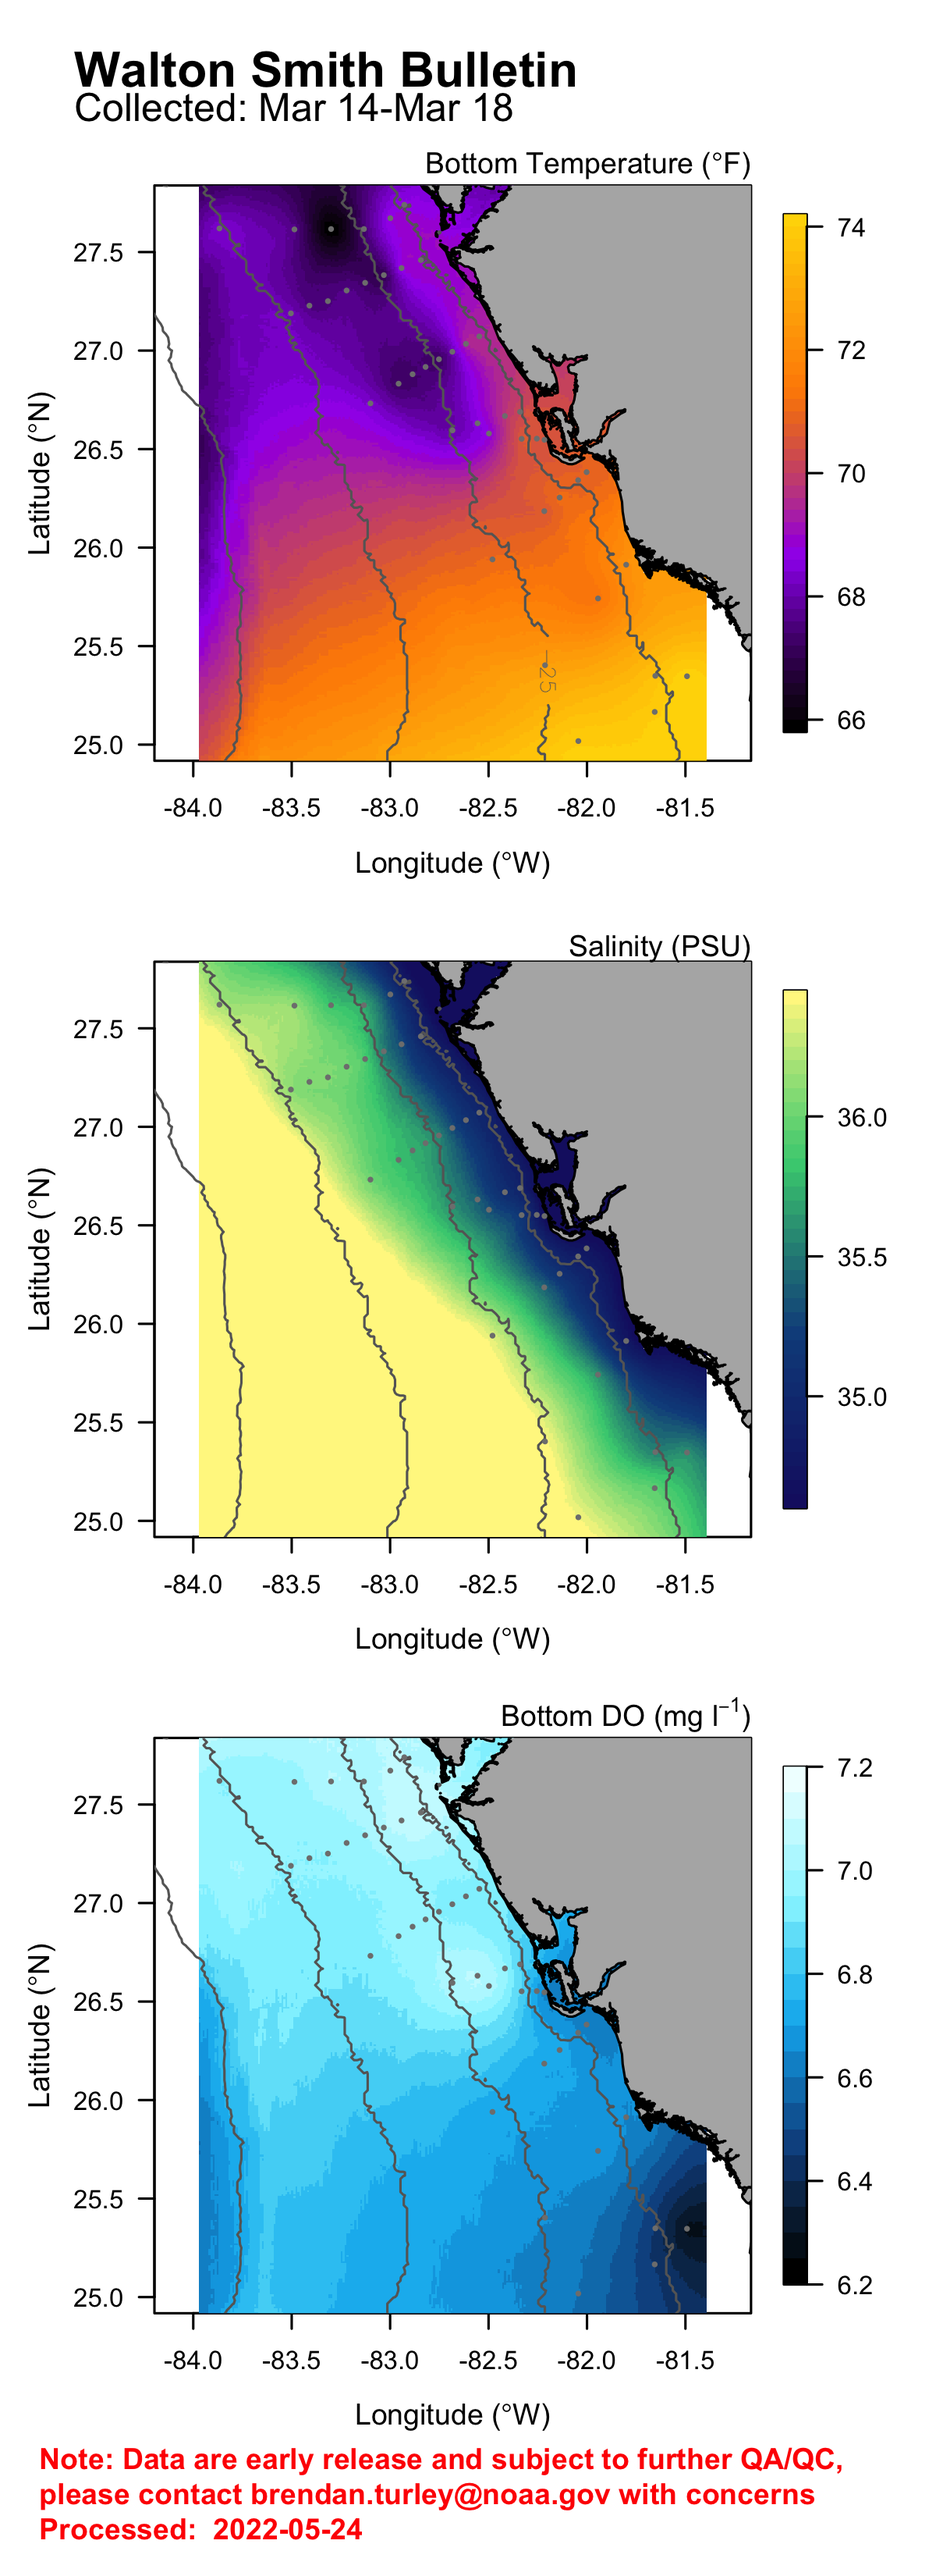
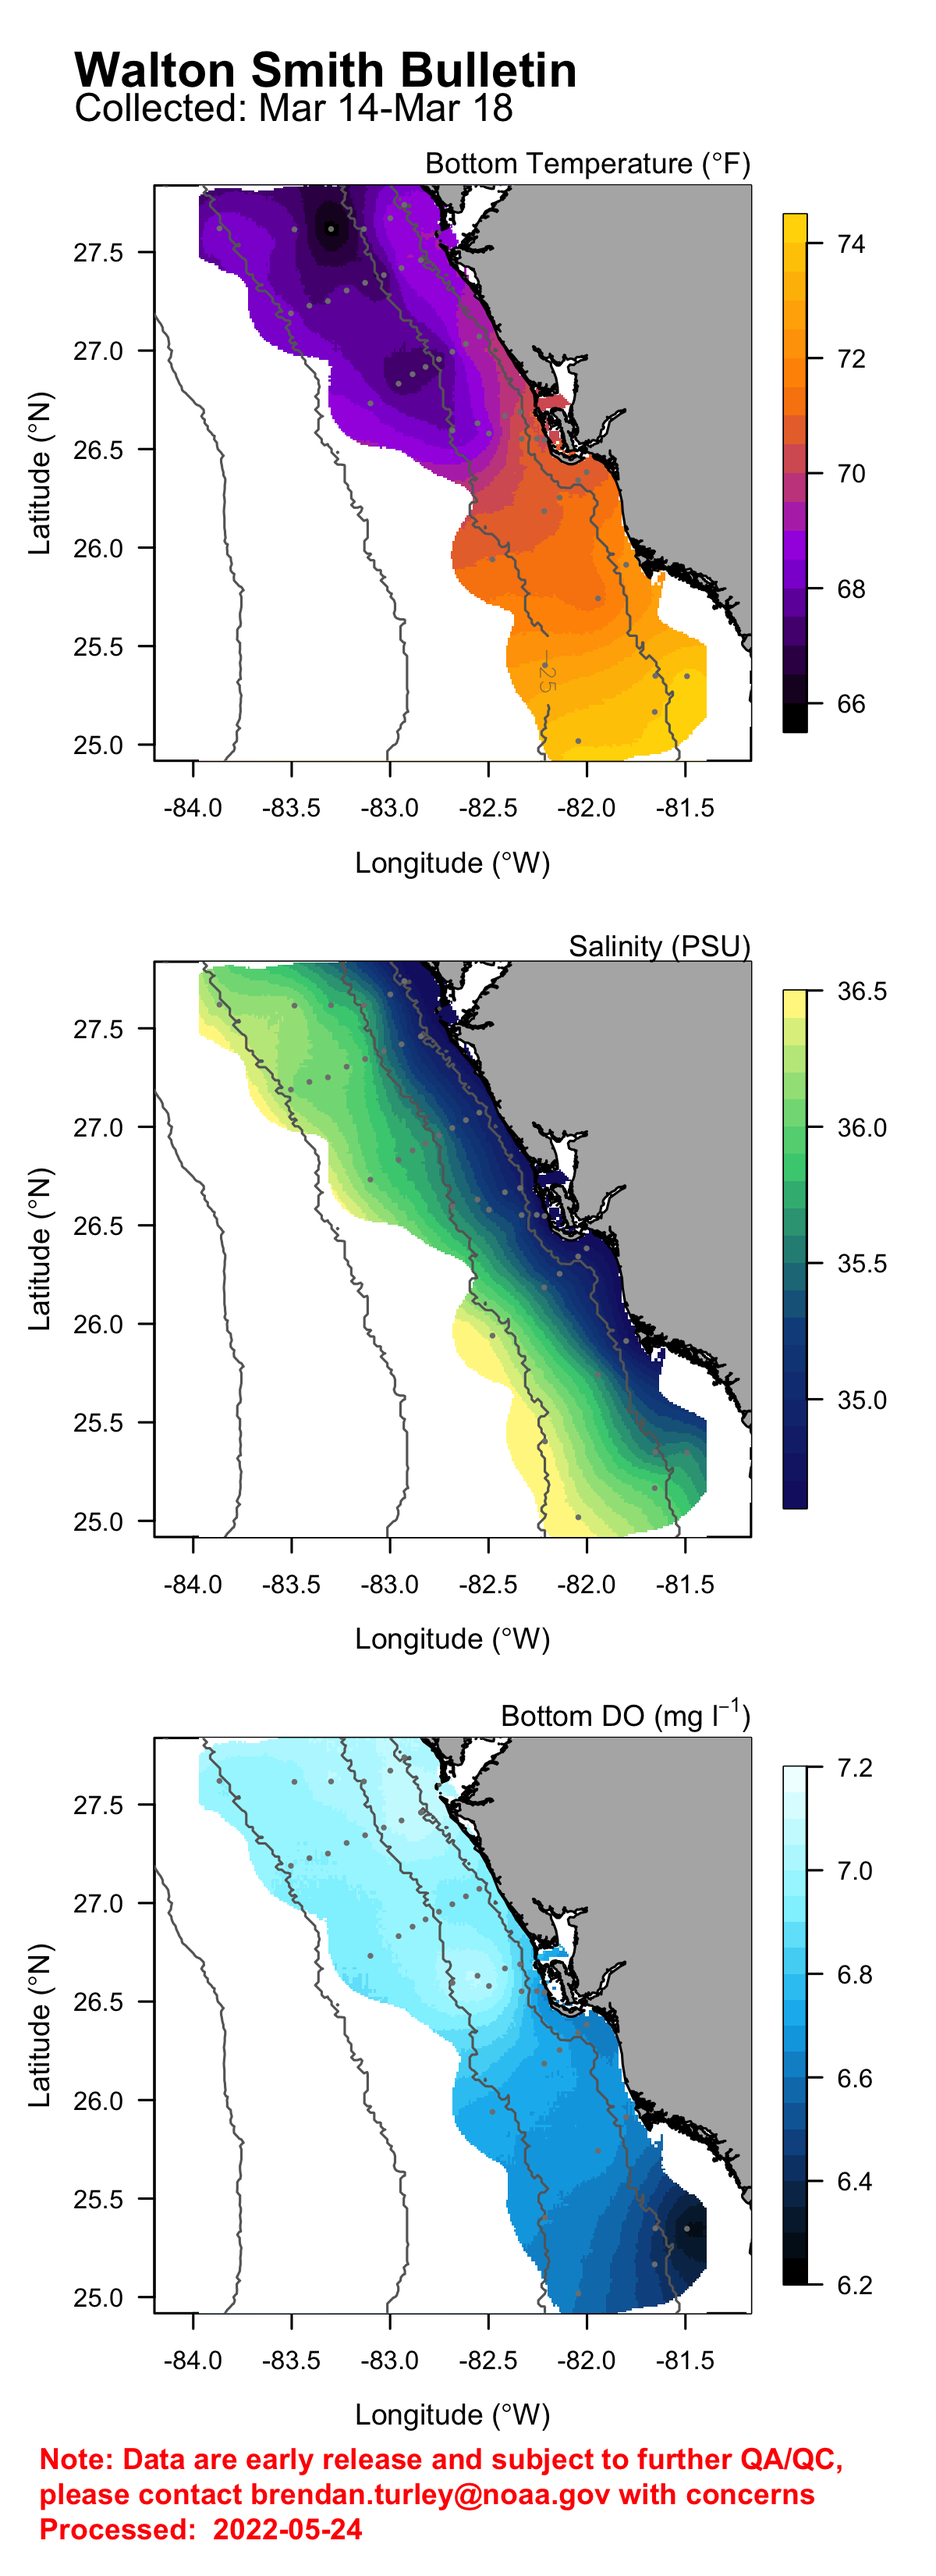
covariate response

diff --git a/README.md b/README.md
@@ -11,4 +11,4 @@ Underdevelopment is interpolation that takes into consideration coastlines and b
 
 ![alt text](https://github.com/imaginaryfish/waltonsmith/blob/main/figures/WS22072_underway.png "latest underway data")
 
-![alt text](https://github.com/imaginaryfish/waltonsmith/blob/main/figures/WS22072_bottom.png "latest bottom data")
+![alt text](https://github.com/imaginaryfish/waltonsmith/blob/main/figures/WS22072_bottom2.png "latest bottom data")
